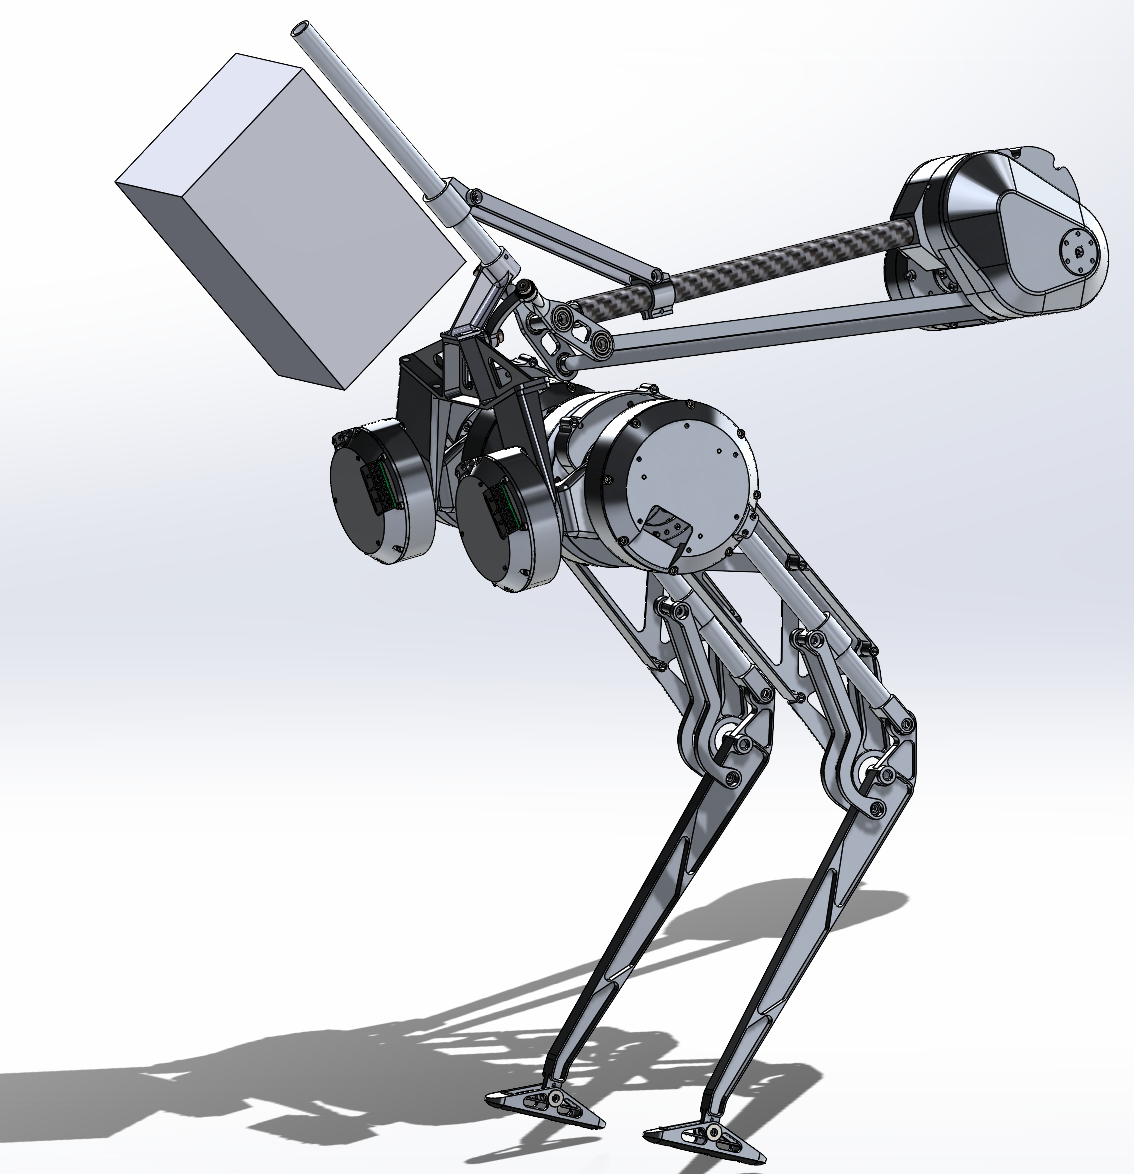
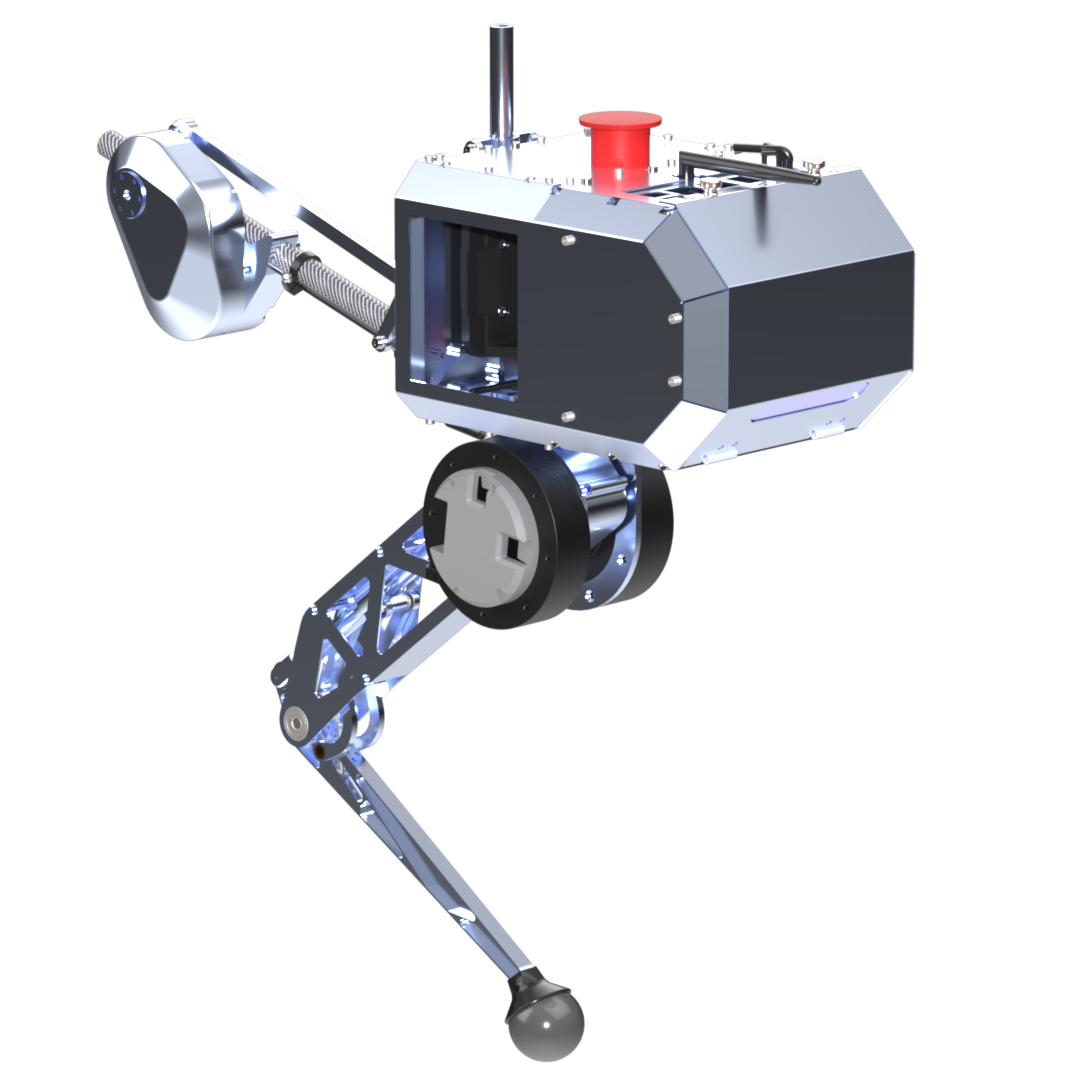
changed picture

diff --git a/src/data.ts b/src/data.ts
@@ -154,6 +154,13 @@ export const projectsLists: ProjectsList[] = [
       'with the robot rather frustrating. I sat down and designed a new version of it where I ironed out all the issues with assembly, fatigue failures, and sensor integration. ' +
       'The leg is mounted on the a gantry as a preliminary sub-assembly test for a future biped robot.',
       dontOptimizeImage: true,
+      pageInfo: {
+        name: 'hopperv2',
+        title: "Hopper V2",
+        blurb: [
+          ''
+        ]
+      }
 
     },
     {
